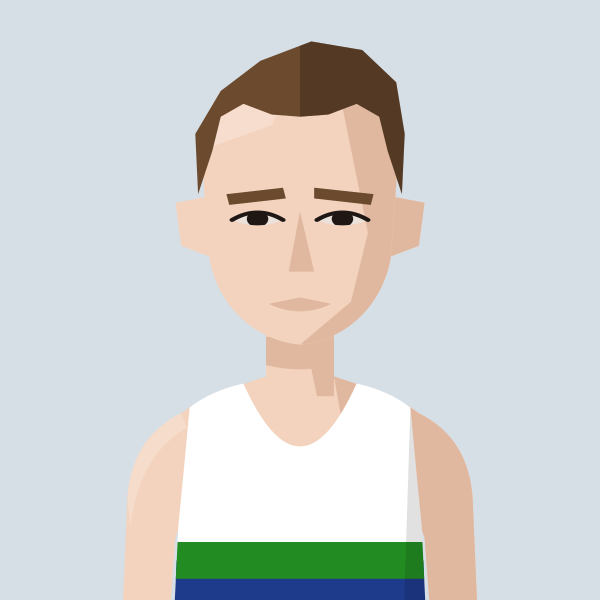
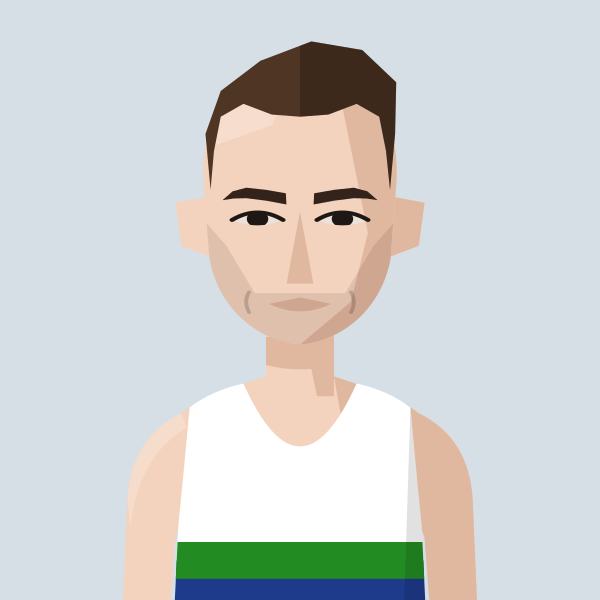
Redraw Andy Coley-Maud portraits (G&G and C/C)
Claude-Session: https://claude.ai/code/session_01MgmDWhFqnSSnP4iBLKXUZC

diff --git a/files/index.html b/files/index.html
@@ -887,7 +887,7 @@ const portraitFile=(name,club)=>{const k=normalizeNameForCompare(name||'').repla
 const portraitClubOf=(name,clubs)=>{for(const c of clubs||[]){if(c&&portraitFile(name,c))return c;}return null;}; /* first of these clubs we have a portrait for */
 // Athlete header figure: superstar portrait if we have one, else a grey runner in the club vest, else the plain vest icon
 // Changes whenever any portrait changes (set by tools/build_og.py), so browsers fetch fresh images instead of old cached ones
-const PORTRAIT_V='073d11e0';const PORTRAIT_WOMEN='abbey-brooke,abbie-bulbulian,adele-prince,aimee-hargreaves,aisling-ahern,alex-brown,alex-gandee,alex-marginean,alex-miller,alexa-parker,alexandra-barbour,alice-braham,alice-bridger-morales,alice-crane,alice-martin,alice-reed,alice-smith,alison-purnell,alison-thomson,amelia-pettitt,amy-clements,andrea-barber,anika-schwarze-chintapatla,anna-garnier,anna-garnier-hw,anna-sharp,annabel-hobday,annabelle-hadlow,anne-hegvold,annmarie-seymour,ava-mcandie,becky-briggs,bethan-goddard,bethanie-murray,bethany-brown,betsy-griffiths,billie-mcclosky,camilla-barden,caoimhe-nic-fhogartaigh,carolyne-baxter,catherine-bryson,catherine-eastham,catherine-kandie,cathy-ansell,charlotte-griffiths,chloe-beckett,chloe-tighe,chrissie-wellington,claire-grima,clara-pettit,clare-elms,clare-pauzers,dillan-quinn,dorchie-cockerell,eilidh-hide,elinor-skinner,eliza-grant,elizabeth-apsley,elizabeth-stavreski,ella-fennelly,ella-king-powrie,ella-may-hards,ella-newton,ellen-weir,ellie-brown,ellie-freeden,eloise-bull,emilie-arnoux,emily-barrett,emily-bradley,emily-lowery,emily-robbins,emma-bond,emma-gordon,emma-howsham,emma-lord,emma-rowland,estle-viljoen,evie-warren,felicity-cole,felicity-harrison,felicity-hayward,fi-maddocks,fiona-clark,fiona-de-mauny,florence-wiggins,gabby-collison,gabriel-reynolds,gemma-newport,genevieve-blanch,georgia-curry,georgie-bruinvels,georgie-fenn,georgie-furze,georgie-grgec,gina-galbraith,grace-leyland,grace-richardson,hannah-edwards,hannah-english,hayley-munn,hayley-munn-cc,heather-statham,heather-statham-cc,helen-alsop,helena-corbin,helena-keenan,holly-nixon,holly-pan,imogen-mackie,imogen-wolsey,iona-cousland,isabel-bradley,isabel-brinsden,isabel-hodder,isabelle-pickett,jennifer-nandi,jennifer-smith,jess-reed,jess-saunders,jess-winfield,jessica-davies,jessica-lowe,jodie-favell,jon-hobbs,josephine-rhodes,julia-bleasdale,julia-wedmore,juliet-hodder,juliette-clark,jurgita-levertaviciute,justine-lynch,karen-fenner,karen-xiang,karina-box,kate-axford,kate-williams,kathy-sharpe,katie-ellen-french,katie-good,katie-snowden,katy-hedgethorne,kitty-shepherd-cross,kristina-popadich,lara-bromilow,lara-mangan,laura-goodson,laura-miles,lauren-major,lea-adamson,lily-newton,lisa-bailey,lisa-thomas,lisa-thomas-hw,lizzie-goldie-scot,louise-cooper,lucy-jones,lucy-macalister,lucy-peters,lydia-blackmore,lydia-gallyer-barnett,maddie-mastrolonardo,maddy-whitman,maeve-kenny,margaret-coogan,martina-conner,mary-james,mary-setyabule,matilde-lomba,megan-gildea,mel-wilkins,mhairi-hall,mimi-corden-lloyd,molly-oconnor,molly-smith,monika-gajek,naomi-lenane,natalie-beadle,natalie-seymour,natasha-lodge,niamh-thompson,nicky-hayes,nicola-cartlidge,nicola-douglas,nikki-haines,nikki-sturzaker,nina-mills,olivia-papaioannou,olivia-stillman,orna-mcginley,pamela-mchutchon,patricia-walker,patrizia-gnoato,penny-oliver,rachel-brown,rebecca-barrow,rebekah-edgar,rosie-powell,ruby-carter,ruby-whyte-wilding,ruby-woolfe,sally-urquhart,sally-young,sally-young-slh,sam-whiting,samantha-munday,sarah-astin,sarah-dewhirst,sarah-grover,sarah-hanley,sarah-holt,sarah-murphy,sarah-palmer,sarah-palmer-ran,sarah-riceman,sarah-young,saron-haileselase,serena-carter,sophie-cowper,sophie-harris,sophie-hicks,sophie-tooley,stacey-ward,steph-hewitt,steph-mccall,steph-mccall-cc,steph-mccall-slh,steph-mitchell,suzanne-swaine,suze-spalding,suzie-harvey,suzy-whatmough,syreeta-stracey,teresa-murphy,tilly-heaton,tilly-heaton-bel,tish-jones,vic-cartwright,vicky-clarke,vicky-edwards,victoria-barthelmess,victoria-buck,vikki-filsell,zoe-doyle,zoe-macdonald,zuzana-nemeckova';const PORTRAIT_MEN='aaron-wilson,abdulla-elsadig,adam-leane,adrian-major,adrien-royer,alan-black,alan-mead,alex-brecker,alex-bruce-littlewood,alex-gutteridge,alex-harris,alex-howard,alex-janiaud,alex-lee,alex-lennon,alex-mills,alex-milne,alex-morales,alex-robinson,alex-yee,alexander-marks,amittai-ben-israel,andrew-cumine,andrew-green,andrew-penney,andrew-perfect,andrew-simms,andrew-warburton,andrius-jaksevicius,andy-coley-maud,andy-coley-maud-cc,andy-fyfe,andy-north,andy-paton,andy-weir,angus-butler,angus-lamb,anisse-ismaili,arlo-ludewick,arne-dumez,arthur-peel,ashley-goncalves,barnaby-day,barry-collins,barry-sawyer,ben-clarke,ben-coughlan,ben-harding,ben-hurley,ben-ireland,ben-millar,ben-paviour,ben-pearce,ben-racle,ben-revill,ben-reynolds,ben-scott,ben-toomer,benedict-whitby,benjamin-hilson,bernie-ford,bill-kerr,bill-weller,bill-weller-wal,bob-harrison,bob-holt,bob-lunnon,bob-rayman,bob-smith,bradley-courtney-pinn,brandon-dewar,brian-gorman,brian-wilder,caleb-hathaway,callum-stewart,cameron-dockerill,cameron-reilly,carl-delaney,charles-herrington,charlie-dabbs,charlie-dickinson,charlie-eastaugh,charlie-manning,charlie-pickett,charlie-rogers,charlie-sandison,charlie-walker,charlie-wyllie,che-compton,chris-busaileh,chris-busaileh-hhh,chris-greenwood,chris-keavey,chris-moss,chris-steer,chris-threadgold,chris-warren,christian-lee,christopher-parker,clive-gilby,clive-shippen,colin-high,colin-pearson,conall-mcnally,conall-whelan,craig-ruddy,dame-dibaba,dan-cliffe,dan-pettitt,daniel-shaw,daniel-wolff,darren-mead,dave-beard,dave-beaver,dave-clarke,dave-glassborow,dave-hill,dave-holt,dave-taylor,david-anderson,david-bowers,david-grima,david-north,david-ogden,david-symons,david-walsh,david-williams,deron-fagan,dick-piotrowski,dimos-evangelidis,dom-nolan,dominic-kiralyfi,don-anderson,don-faircloth,don-maclean,doug-maughan,duncan-rimmer,dylan-evans,dylan-mitchard,ed-brewer,ed-catmur,ed-gibson,ed-mallett,ed-prickett,eddie-herridge,eddie-jodrell,eddie-rolls,edward-chuck,eoin-brady,eoin-molloy,ethan-mccolgan,falilou-kebe,findlay-dyer,finn-johnson,fintan-pearce,frank-tickner,frank-ward,fred-paget,fred-slemeck,fred-stebbings,freddie-hessian,garret-lee,gary-ribbons,gary-ribbons-ee,gary-staines,gary-staines-bel,gavin-eccles,geoff-biscoe,geoff-jerwood,geoff-north,george-cotton,george-gathercole,george-jackson,george-loxton,george-mallett,george-ogden,gerry-adams,gerry-north,glen-keegan,gordon-pearce,graham-macky,grenville-tuck,harrison-hayman,harry-guttridge,hector-revill,henry-hart,henry-silverstein,hugo-hewitt,huw-lobb,ian-acreman,ian-crowe-wright,ian-ellwood,ian-harkness,indy-barnes,isaac-lutaya,isaac-parker,jack-brotchie,jack-dickson,jack-dormer,jack-hampshire,jack-harrison,jack-hobden,jack-kavanagh,jack-millar,jack-ramm,jack-woods,jacob-brockmann,jake-simmonds,james-bartram,james-blackwood,james-bowler,james-estall,james-ewing,james-fox,james-hancock,james-harvey,james-hoad,james-kelly,james-mcmullan,james-murray,james-nutt,james-preston,james-roberts,james-stockings,james-ward,james-wootton,jamie-crowe,jamie-parkinson,jared-martin,jean-paul-wright,jeff-cunningham,jeremy-dempsey,jermaine-mays,jerry-watson,jim-allchin,jim-rimmer,joachim-wolf,joe-english,joe-hartley,john-baker,john-bicourt,john-bromley,john-davies,john-dear,john-foss,john-foxall,john-gilbert,john-gladwin,john-hutchins,john-kendall,john-kimaiyo,john-lee,john-lethbridge,john-mather,john-moore,john-roberts,john-sanderson,john-snowden,john-stow,john-sullivan,john-thresher,jon-pepper,jon-pepper-slh,jon-phillips,jon-solly,jonathan-cocker,jonathan-collier,jonathan-cornish,jonathan-ratcliffe,jonathan-tipper,jonny-neville,jonny-scott,jordan-weaver,josh-mitchell,josh-snow,josh-trigwell,jules-gevers,junior-galley,justin-chaston,justin-reid,kassa-tadesse,keith-newton,ken-penney,ken-penney-cro,kevin-nash,kevin-quinn,kevin-sturman,kieran-barnes,kieran-white,knut-hegvold,knut-hegvold-bel,larry-ryan,lawrence-avery,lee-lintern,leo-coy,les-presland,les-presland-sur,lewis-lloyd,liam-burthem,lionel-mann,lloyd-kempson,luke-caldwell,macgregor-cox,mack-downie,malachi-byansi,marcello-bizio,marcelo-fortes,marco-mazzotta,mark-anderson,mark-miles,mark-sinclair,mark-tennyson,mark-waller,martin-dent,martin-duff,martin-lake,martin-lewington,martin-shore,mathew-speed,matt-chaston,matt-jones,matt-wood,matt-yates,matthew-edgar,matthew-houchell,matthew-thomas,matthew-varley,max-bloor,max-heyden,max-milarvie,max-nicholls,michael-baker,michael-mccarthy,mick-gowan,mick-woods,mike-beevor,mike-boyle,mike-cummings,mike-farmery,mike-fuller,mike-hayes,mike-kortenray,mike-nouch,mohammed-ismail,monty-hudson,morgan-roberts,nathan-visick,neil-chisholm,neil-phillips,neil-speaight,neil-wilson,nic-lukies,nick-acfield,nick-altmann,nick-bester,nick-bester-hhh,nick-buckle,nick-bundle,nick-goolab,nick-lightfoot,nick-morris,nick-torry,noah-fernandez,norman-stairs,oli-carrington,oliver-carrington,oliver-fox,oliver-reynolds,oliver-young,ollie-foote,ollie-garrod,olly-buck,owen-hind,paddy-roddy,pancho-panchev,paskar-owor,pat-newell,patrick-mcdougall,paul-calver,paul-cheetham,paul-evans,paul-freary,paul-magner,paul-pollock,paul-sanderson,paul-sanderson-wok,pete-carton,pete-gardner,peter-clarke,peter-giles,peter-giles-thh,peter-lighting,phil-carstairs,phil-sanders,phil-sesemann,phil-swinburn,phil-wicks,phil-woodford-smith,raj-paranandi,ralph-street,ranjit-bhatia,ray-foley,reece-edwards,rhys-boorman,rian-mccawley,richard-ashe,richard-giles,richard-henderson,richard-langley,richard-mcdowell,richard-ollington,richard-partridge,richard-sun,richard-ward,rob-armstrong,rob-kelly,rob-tuer,robert-elphick,robert-laing,robert-norville,robert-peacock,robert-sesemann,robin-boon,robin-hudson,roger-alsop,roger-alsop-bel,roger-hackney,ron-clark,ron-linstead,ronan-tanguy,rory-mcmahon,rory-orsborn,ross-braden,ross-christie,rowan-board,rowan-crichton,russell-dessaix-chin,ryan-hickey,ryan-mccallister,sam-bramwell,sam-charlton,sam-gebreselassie,sam-haughian,sam-peters,sam-sommerville,sam-tyas,samuel-dames,samuel-wilcock,sean-cordon,sebastian-anthony,simon-baines,simon-coombes,simon-coppard,simon-fairbrother,simon-holmes,simon-rayner,simon-rayner-hw,simon-wade,simon-wade-hhh,simon-waterhouse,simon-williams,simon-wurr,sonny-nicoll,spencer-barden,stephen-mcleod,stephen-sharp,steve-badgery,steve-badgery-mit,steve-gardner,steve-jones,steve-smythe,steve-smythe-hhh,stuart-beaney,stuart-major,stuart-major-thh,stuart-mccallum,stuart-paton,terry-booth,thomas-dugre,thomas-gandee,thomas-gardner,thomas-renshaw,tim-alexander,tim-eglen,tim-lawrence,tim-watson,toby-cooke,toby-fletcher,tom-austin,tom-cheetham,tom-conlon,tom-davies,tom-gifford,tom-higgs,tom-jervis,tom-lole,tom-south,tom-thornley,tommy-taylor,tony-binda,tony-fairclough,tony-harran,trevor-hart,trevor-williams,valdis-pauzers,valentin-rigori,vic-maughan,wayne-oxborough,will-cockerell,will-lewis,will-marshall,will-scott,will-stockley,william-gardner,yacin-yusuf,zach-nolan';
+const PORTRAIT_V='518c416c';const PORTRAIT_WOMEN='abbey-brooke,abbie-bulbulian,adele-prince,aimee-hargreaves,aisling-ahern,alex-brown,alex-gandee,alex-marginean,alex-miller,alexa-parker,alexandra-barbour,alice-braham,alice-bridger-morales,alice-crane,alice-martin,alice-reed,alice-smith,alison-purnell,alison-thomson,amelia-pettitt,amy-clements,andrea-barber,anika-schwarze-chintapatla,anna-garnier,anna-garnier-hw,anna-sharp,annabel-hobday,annabelle-hadlow,anne-hegvold,annmarie-seymour,ava-mcandie,becky-briggs,bethan-goddard,bethanie-murray,bethany-brown,betsy-griffiths,billie-mcclosky,camilla-barden,caoimhe-nic-fhogartaigh,carolyne-baxter,catherine-bryson,catherine-eastham,catherine-kandie,cathy-ansell,charlotte-griffiths,chloe-beckett,chloe-tighe,chrissie-wellington,claire-grima,clara-pettit,clare-elms,clare-pauzers,dillan-quinn,dorchie-cockerell,eilidh-hide,elinor-skinner,eliza-grant,elizabeth-apsley,elizabeth-stavreski,ella-fennelly,ella-king-powrie,ella-may-hards,ella-newton,ellen-weir,ellie-brown,ellie-freeden,eloise-bull,emilie-arnoux,emily-barrett,emily-bradley,emily-lowery,emily-robbins,emma-bond,emma-gordon,emma-howsham,emma-lord,emma-rowland,estle-viljoen,evie-warren,felicity-cole,felicity-harrison,felicity-hayward,fi-maddocks,fiona-clark,fiona-de-mauny,florence-wiggins,gabby-collison,gabriel-reynolds,gemma-newport,genevieve-blanch,georgia-curry,georgie-bruinvels,georgie-fenn,georgie-furze,georgie-grgec,gina-galbraith,grace-leyland,grace-richardson,hannah-edwards,hannah-english,hayley-munn,hayley-munn-cc,heather-statham,heather-statham-cc,helen-alsop,helena-corbin,helena-keenan,holly-nixon,holly-pan,imogen-mackie,imogen-wolsey,iona-cousland,isabel-bradley,isabel-brinsden,isabel-hodder,isabelle-pickett,jennifer-nandi,jennifer-smith,jess-reed,jess-saunders,jess-winfield,jessica-davies,jessica-lowe,jodie-favell,jon-hobbs,josephine-rhodes,julia-bleasdale,julia-wedmore,juliet-hodder,juliette-clark,jurgita-levertaviciute,justine-lynch,karen-fenner,karen-xiang,karina-box,kate-axford,kate-williams,kathy-sharpe,katie-ellen-french,katie-good,katie-snowden,katy-hedgethorne,kitty-shepherd-cross,kristina-popadich,lara-bromilow,lara-mangan,laura-goodson,laura-miles,lauren-major,lea-adamson,lily-newton,lisa-bailey,lisa-thomas,lisa-thomas-hw,lizzie-goldie-scot,louise-cooper,lucy-jones,lucy-macalister,lucy-peters,lydia-blackmore,lydia-gallyer-barnett,maddie-mastrolonardo,maddy-whitman,maeve-kenny,margaret-coogan,martina-conner,mary-james,mary-setyabule,matilde-lomba,megan-gildea,mel-wilkins,mhairi-hall,mimi-corden-lloyd,molly-oconnor,molly-smith,monika-gajek,naomi-lenane,natalie-beadle,natalie-seymour,natasha-lodge,niamh-thompson,nicky-hayes,nicola-cartlidge,nicola-douglas,nikki-haines,nikki-sturzaker,nina-mills,olivia-papaioannou,olivia-stillman,orna-mcginley,pamela-mchutchon,patricia-walker,patrizia-gnoato,penny-oliver,rachel-brown,rebecca-barrow,rebekah-edgar,rosie-powell,ruby-carter,ruby-whyte-wilding,ruby-woolfe,sally-urquhart,sally-young,sally-young-slh,sam-whiting,samantha-munday,sarah-astin,sarah-dewhirst,sarah-grover,sarah-hanley,sarah-holt,sarah-murphy,sarah-palmer,sarah-palmer-ran,sarah-riceman,sarah-young,saron-haileselase,serena-carter,sophie-cowper,sophie-harris,sophie-hicks,sophie-tooley,stacey-ward,steph-hewitt,steph-mccall,steph-mccall-cc,steph-mccall-slh,steph-mitchell,suzanne-swaine,suze-spalding,suzie-harvey,suzy-whatmough,syreeta-stracey,teresa-murphy,tilly-heaton,tilly-heaton-bel,tish-jones,vic-cartwright,vicky-clarke,vicky-edwards,victoria-barthelmess,victoria-buck,vikki-filsell,zoe-doyle,zoe-macdonald,zuzana-nemeckova';const PORTRAIT_MEN='aaron-wilson,abdulla-elsadig,adam-leane,adrian-major,adrien-royer,alan-black,alan-mead,alex-brecker,alex-bruce-littlewood,alex-gutteridge,alex-harris,alex-howard,alex-janiaud,alex-lee,alex-lennon,alex-mills,alex-milne,alex-morales,alex-robinson,alex-yee,alexander-marks,amittai-ben-israel,andrew-cumine,andrew-green,andrew-penney,andrew-perfect,andrew-simms,andrew-warburton,andrius-jaksevicius,andy-coley-maud,andy-coley-maud-cc,andy-fyfe,andy-north,andy-paton,andy-weir,angus-butler,angus-lamb,anisse-ismaili,arlo-ludewick,arne-dumez,arthur-peel,ashley-goncalves,barnaby-day,barry-collins,barry-sawyer,ben-clarke,ben-coughlan,ben-harding,ben-hurley,ben-ireland,ben-millar,ben-paviour,ben-pearce,ben-racle,ben-revill,ben-reynolds,ben-scott,ben-toomer,benedict-whitby,benjamin-hilson,bernie-ford,bill-kerr,bill-weller,bill-weller-wal,bob-harrison,bob-holt,bob-lunnon,bob-rayman,bob-smith,bradley-courtney-pinn,brandon-dewar,brian-gorman,brian-wilder,caleb-hathaway,callum-stewart,cameron-dockerill,cameron-reilly,carl-delaney,charles-herrington,charlie-dabbs,charlie-dickinson,charlie-eastaugh,charlie-manning,charlie-pickett,charlie-rogers,charlie-sandison,charlie-walker,charlie-wyllie,che-compton,chris-busaileh,chris-busaileh-hhh,chris-greenwood,chris-keavey,chris-moss,chris-steer,chris-threadgold,chris-warren,christian-lee,christopher-parker,clive-gilby,clive-shippen,colin-high,colin-pearson,conall-mcnally,conall-whelan,craig-ruddy,dame-dibaba,dan-cliffe,dan-pettitt,daniel-shaw,daniel-wolff,darren-mead,dave-beard,dave-beaver,dave-clarke,dave-glassborow,dave-hill,dave-holt,dave-taylor,david-anderson,david-bowers,david-grima,david-north,david-ogden,david-symons,david-walsh,david-williams,deron-fagan,dick-piotrowski,dimos-evangelidis,dom-nolan,dominic-kiralyfi,don-anderson,don-faircloth,don-maclean,doug-maughan,duncan-rimmer,dylan-evans,dylan-mitchard,ed-brewer,ed-catmur,ed-gibson,ed-mallett,ed-prickett,eddie-herridge,eddie-jodrell,eddie-rolls,edward-chuck,eoin-brady,eoin-molloy,ethan-mccolgan,falilou-kebe,findlay-dyer,finn-johnson,fintan-pearce,frank-tickner,frank-ward,fred-paget,fred-slemeck,fred-stebbings,freddie-hessian,garret-lee,gary-ribbons,gary-ribbons-ee,gary-staines,gary-staines-bel,gavin-eccles,geoff-biscoe,geoff-jerwood,geoff-north,george-cotton,george-gathercole,george-jackson,george-loxton,george-mallett,george-ogden,gerry-adams,gerry-north,glen-keegan,gordon-pearce,graham-macky,grenville-tuck,harrison-hayman,harry-guttridge,hector-revill,henry-hart,henry-silverstein,hugo-hewitt,huw-lobb,ian-acreman,ian-crowe-wright,ian-ellwood,ian-harkness,indy-barnes,isaac-lutaya,isaac-parker,jack-brotchie,jack-dickson,jack-dormer,jack-hampshire,jack-harrison,jack-hobden,jack-kavanagh,jack-millar,jack-ramm,jack-woods,jacob-brockmann,jake-simmonds,james-bartram,james-blackwood,james-bowler,james-estall,james-ewing,james-fox,james-hancock,james-harvey,james-hoad,james-kelly,james-mcmullan,james-murray,james-nutt,james-preston,james-roberts,james-stockings,james-ward,james-wootton,jamie-crowe,jamie-parkinson,jared-martin,jean-paul-wright,jeff-cunningham,jeremy-dempsey,jermaine-mays,jerry-watson,jim-allchin,jim-rimmer,joachim-wolf,joe-english,joe-hartley,john-baker,john-bicourt,john-bromley,john-davies,john-dear,john-foss,john-foxall,john-gilbert,john-gladwin,john-hutchins,john-kendall,john-kimaiyo,john-lee,john-lethbridge,john-mather,john-moore,john-roberts,john-sanderson,john-snowden,john-stow,john-sullivan,john-thresher,jon-pepper,jon-pepper-slh,jon-phillips,jon-solly,jonathan-cocker,jonathan-collier,jonathan-cornish,jonathan-ratcliffe,jonathan-tipper,jonny-neville,jonny-scott,jordan-weaver,josh-mitchell,josh-snow,josh-trigwell,jules-gevers,junior-galley,justin-chaston,justin-reid,kassa-tadesse,keith-newton,ken-penney,ken-penney-cro,kevin-nash,kevin-quinn,kevin-sturman,kieran-barnes,kieran-white,knut-hegvold,knut-hegvold-bel,larry-ryan,lawrence-avery,lee-lintern,leo-coy,les-presland,les-presland-sur,lewis-lloyd,liam-burthem,lionel-mann,lloyd-kempson,luke-caldwell,macgregor-cox,mack-downie,malachi-byansi,marcello-bizio,marcelo-fortes,marco-mazzotta,mark-anderson,mark-miles,mark-sinclair,mark-tennyson,mark-waller,martin-dent,martin-duff,martin-lake,martin-lewington,martin-shore,mathew-speed,matt-chaston,matt-jones,matt-wood,matt-yates,matthew-edgar,matthew-houchell,matthew-thomas,matthew-varley,max-bloor,max-heyden,max-milarvie,max-nicholls,michael-baker,michael-mccarthy,mick-gowan,mick-woods,mike-beevor,mike-boyle,mike-cummings,mike-farmery,mike-fuller,mike-hayes,mike-kortenray,mike-nouch,mohammed-ismail,monty-hudson,morgan-roberts,nathan-visick,neil-chisholm,neil-phillips,neil-speaight,neil-wilson,nic-lukies,nick-acfield,nick-altmann,nick-bester,nick-bester-hhh,nick-buckle,nick-bundle,nick-goolab,nick-lightfoot,nick-morris,nick-torry,noah-fernandez,norman-stairs,oli-carrington,oliver-carrington,oliver-fox,oliver-reynolds,oliver-young,ollie-foote,ollie-garrod,olly-buck,owen-hind,paddy-roddy,pancho-panchev,paskar-owor,pat-newell,patrick-mcdougall,paul-calver,paul-cheetham,paul-evans,paul-freary,paul-magner,paul-pollock,paul-sanderson,paul-sanderson-wok,pete-carton,pete-gardner,peter-clarke,peter-giles,peter-giles-thh,peter-lighting,phil-carstairs,phil-sanders,phil-sesemann,phil-swinburn,phil-wicks,phil-woodford-smith,raj-paranandi,ralph-street,ranjit-bhatia,ray-foley,reece-edwards,rhys-boorman,rian-mccawley,richard-ashe,richard-giles,richard-henderson,richard-langley,richard-mcdowell,richard-ollington,richard-partridge,richard-sun,richard-ward,rob-armstrong,rob-kelly,rob-tuer,robert-elphick,robert-laing,robert-norville,robert-peacock,robert-sesemann,robin-boon,robin-hudson,roger-alsop,roger-alsop-bel,roger-hackney,ron-clark,ron-linstead,ronan-tanguy,rory-mcmahon,rory-orsborn,ross-braden,ross-christie,rowan-board,rowan-crichton,russell-dessaix-chin,ryan-hickey,ryan-mccallister,sam-bramwell,sam-charlton,sam-gebreselassie,sam-haughian,sam-peters,sam-sommerville,sam-tyas,samuel-dames,samuel-wilcock,sean-cordon,sebastian-anthony,simon-baines,simon-coombes,simon-coppard,simon-fairbrother,simon-holmes,simon-rayner,simon-rayner-hw,simon-wade,simon-wade-hhh,simon-waterhouse,simon-williams,simon-wurr,sonny-nicoll,spencer-barden,stephen-mcleod,stephen-sharp,steve-badgery,steve-badgery-mit,steve-gardner,steve-jones,steve-smythe,steve-smythe-hhh,stuart-beaney,stuart-major,stuart-major-thh,stuart-mccallum,stuart-paton,terry-booth,thomas-dugre,thomas-gandee,thomas-gardner,thomas-renshaw,tim-alexander,tim-eglen,tim-lawrence,tim-watson,toby-cooke,toby-fletcher,tom-austin,tom-cheetham,tom-conlon,tom-davies,tom-gifford,tom-higgs,tom-jervis,tom-lole,tom-south,tom-thornley,tommy-taylor,tony-binda,tony-fairclough,tony-harran,trevor-hart,trevor-williams,valdis-pauzers,valentin-rigori,vic-maughan,wayne-oxborough,will-cockerell,will-lewis,will-marshall,will-scott,will-stockley,william-gardner,yacin-yusuf,zach-nolan';
 // Runners whose dog pops up on their own profile page (a -dog.svg version of their portrait)
 const PROFILE_DOGS=new Set(['john-sanderson','penny-oliver','james-hancock','angus-butler']);
 const AthletePortrait=({name,club,w,fill,onClick,blink})=>{const[failed,setFailed]=useState(false);const file=portraitFile(name,club);const src0=file?`/portraits/athletes/${file}.svg?v=${PORTRAIT_V}`:PORTRAIT_CLUBS.has(club)?`/portraits/clubs/${club.replace(/\//g,'').replace(/&/g,'and')}.svg?v=${PORTRAIT_V}`:null;const blinkSrc=useBlinkSrc(file?(PROFILE_DOGS.has(file)?`/portraits/athletes/${file}-dog.svg?v=${PORTRAIT_V}`:src0):null,!!blink);const src=blinkSrc||src0;if(!src||failed)return<div onClick={onClick} className={onClick?'cursor-pointer':''}><ClubShield club={club} size={w}/></div>;const h=Math.round(w*148/126),ih=Math.round(w*1.4);if(fill)return<div onClick={onClick} className="cursor-pointer" style={{alignSelf:'stretch',minHeight:h,aspectRatio:'126 / 148',flexShrink:0,position:'relative',borderRadius:4,overflow:'hidden'}}><img src={src} alt={file?`Portrait of ${name.replace(/\s*\([^)]*\)$/,'')}`:`Runner in ${CLUBS[club]?.name||club} vest`} style={{position:'absolute',top:0,left:0,display:'block',width:'100%',height:'auto'}} onError={()=>setFailed(true)}/></div>;return<div style={{width:w,height:h,borderRadius:4,overflow:'hidden',flexShrink:0}}><img src={src} alt={file?`Portrait of ${name.replace(/\s*\([^)]*\)$/,'')}`:`Runner in ${CLUBS[club]?.name||club} vest`} width={w} height={ih} style={{display:'block',width:w,height:ih}} onError={()=>setFailed(true)}/></div>;};

diff --git a/tools/gen_portraits.py b/tools/gen_portraits.py
@@ -2160,4 +2160,11 @@ save("hayley-munn-cc", _munn("C/C"))
 save("frank-tickner", nose(brows(straightbrows(eyes(figure("KEN", skin=1, hair="quiffrecede", hair_colour="#B98A55", brow_colour="#9C7046", facial="stubble", facial_colour="#B08A5E", jaw="square"), "hooded", 0)), 0, 0, 6), 1.05, 1.1))
 # John Gilbert (KEN), Oct 2026 redraw from a 2013 start-line photo: messy light-brown fringe, stubble, ruddy cheeks, hooded eyes close under the brows
 save("john-gilbert", nose(brows(eyes(figure("KEN", skin=1, hair="messyfringe", hair_colour="#8A6440", brow_colour="#6B4A2E", facial="stubble", facial_colour="#8A6440", rosy=True), "hooded", 0), 0, 0, 3), 1.05, 1.15))
+# Andy Coley-Maud (G&G; Clapham Chasers earlier), Oct 2026 redraw from a 2013 start-line photo: short mid-dark brown quiff, tapered brows close over the eyes, cheek dimples, very light stubble
+def _coleymaud(kit):
+    s = figure(kit, skin=1, hair="quiffshort", hair_colour="#4E3524", brow_colour="#33231A", facial="stubble", facial_colour="#4E3524")
+    s = s.replace('Z" opacity=".32"/>', 'Z" opacity=".12"/>', 1)
+    return cheekdimples(nose(brows(taperbrows(eyes(s, None, 0), 1.2), 0, 0, 3), 1.05, 1.2))
+save("andy-coley-maud", _coleymaud("G&G"))
+save("andy-coley-maud-cc", _coleymaud("C/C"))
 export_site()
